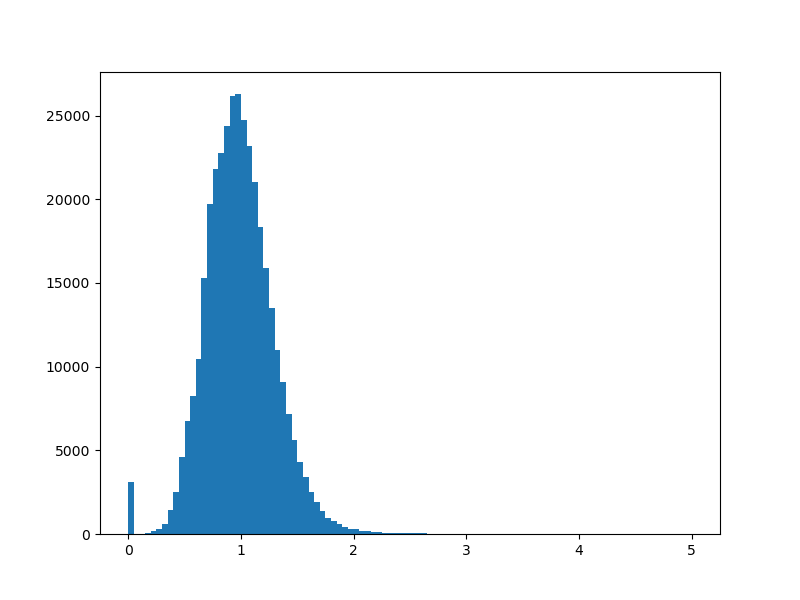
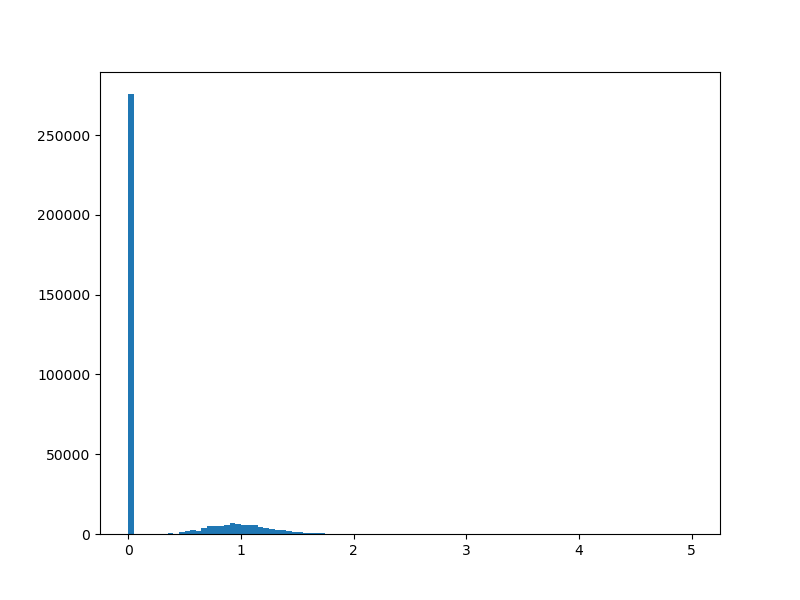
update

diff --git a/nom_package/regressor.py b/nom_package/regressor.py
@@ -17,6 +17,7 @@ from sklearn.inspection import plot_partial_dependence
 from sklearn.feature_selection import RFE
 from sklearn.model_selection import train_test_split, GroupKFold, cross_val_predict
 from sklearn.neural_network import MLPRegressor
+from sklearn.linear_model import LinearRegression
 
 import pickle
 
@@ -82,30 +83,45 @@ def _load_feature_names(tracer, use_stream=None, use_stars=None):
     return feature_names
 
 
-def _load_rf_hyperparameters(updated_param=None):
-    param = {}
+def _load_rf_hyperparameters(updated_param=None, n_jobs=6):
+    param = dict()
+    min_samples_leaf = {'North':20, 'South':20, 'Des':20, 'South_all':20, 'South_mid':20, 'South_pole':20, 'South_mid_no_des':20, 'Des_mid':20}
+    for key in min_samples_leaf:
+        param[key] = {'n_estimators':200, 'min_samples_leaf':min_samples_leaf[key], 'max_depth':None, 'max_leaf_nodes':None, 'n_jobs':n_jobs}
     if not updated_param is None:
         param = deep_update(param, updated_param)
     return param
+
 
 def _load_mlp_hyperparameters(updated_param=None):
-    param = {}
+    param = {'activation': 'logistic', 'batch_size': 1000, 'hidden_layer_sizes': (10, 8),
+             'max_iter': 6000, 'n_iter_no_change': 100, 'random_state': 5, 'solver': 'adam', 'tol': 1e-5}
     if not updated_param is None:
         param = deep_update(param, updated_param)
     return param
 
+
 def _load_linear_hyperparameters(updated_param=None):
-    param = {}
+    param = dict()
     if not updated_param is None:
         param = deep_update(param, updated_param)
     return param
+
+
+def _load_nfold(updated_param=None):
+    param = {'North':6, 'South':12, 'Des':6, 'South_all':18, 'South_mid':14, 'South_pole':5, 'Des_mid':3}
+    if not updated_param is None:
+        param = deep_update(param, updated_param)
+    return param
+
 
 class Regressor(object):
     """
     Implementation of the Systematic Correction based on template fitting regression
     """
 
-    def __init__(self, dataframe, engine, overwrite_regression=False, feature_names=None, updated_param_rf=None, updated_param_mlp=None, updated_param_linear=None):
+    def __init__(self, dataframe, engine, overwrite_regression=False, feature_names=None,
+                 updated_param_rf=None, updated_param_mlp=None, updated_param_linear=None, updated_nfold=None, n_jobs=6):
         """
         Initialize :class:`Regressor`
 
@@ -132,57 +148,50 @@ class Regressor(object):
             self.feature_names = feature_names
 
         if self.engine == 'RF':
-            self.param_regressor = _load_rf_hyperparameters(updated_param_rf)
+            self.param_regressor = _load_rf_hyperparameters(updated_param_rf, n_jobs)
         elif self.engine == 'NN':
             self.param_regressor = _load_mlp_hyperparameters(updated_param_mlp)
         elif self.engine == 'Linear':
             self.param_regressor = _load_linear_hyperparameters(updated_param_linear)
 
-        #new = self.__class__.__new__(self.__class__)
-        #new.__dict__.update(self.__dict__)
+        self.nfold = _load_nfold(updated_nfold)
 
-        ## mettre tout ce qu'il faut ect ...
 
-    def make_regressor_kfold(X, Y, keep_to_train, pixels, Nside, nbr_fold=5, min_samples_leaf=20, plot_accuracy=True, dir_to_save='Res'):
-        if use_neural_network:
-            if dir_to_save[-6:-1] == 'North':
-                dict_ini_mlp = {'activation': 'logistic', 'batch_size': 1000, 'hidden_layer_sizes': (10, 8), 'max_iter': 6000, \
-                                'n_iter_no_change': 100, 'random_state': 5, 'solver': 'adam', 'tol': 1e-5}
-            elif dir_to_save[-6:-1] == 'South':
-                dict_ini_mlp = {'activation': 'logistic', 'batch_size': 1000, 'hidden_layer_sizes': (10, 8), 'max_iter': 6000, \
-                                'n_iter_no_change': 100, 'random_state': 5, 'solver': 'adam', 'tol': 1e-5}
-            else:
-                dict_ini_mlp = {'activation': 'logistic', 'batch_size': 1000, 'hidden_layer_sizes': (10, 8), 'max_iter': 6000, \
-                                'n_iter_no_change': 100, 'random_state': 5, 'solver': 'adam', 'tol': 1e-5}
+    @staticmethod
+    def make_regressor_kfold(engine, nfold, param_regressor, X, Y, keep_to_train, pixels, Nside, dir_to_save, plot_accuracy=False):
+        if engine == 'NN':
             print(f"            ** USE NEURAL NETWORK")
-            print(f"                        *** Dict ini : {dict_ini_mlp}")
-            regressor = MLPRegressor(**dict_ini_mlp)
-        else:
+            print(f"                        *** Dict ini : {param_regressor}")
+            regressor = MLPRegressor(**param_regressor)
+        elif engine == 'RF':
             print(f"            ** USE RANDOM FOREST")
-            dict_ini_rf = {'n_estimators':200, 'min_samples_leaf':min_samples_leaf, 'max_depth':None, 'max_leaf_nodes':None, 'n_jobs':n_jobs}
-            print(f"                        *** Dict ini : {dict_ini_rf}")
-            regressor = RandomForestRegressor(**dict_ini_rf)
+            print(f"                        *** Dict ini : {param_regressor}")
+            regressor = RandomForestRegressor(**param_regressor)
+        elif engine == 'LINEAR':
+            print(f"            ** USE LINEAR")
+            print(f"                        *** Dict ini : {param_regressor}")
+            regressor = LinearRegression(**param_regressor)
 
-        kfold = GroupKFold(n_splits=nbr_fold)
+        kfold = GroupKFold(n_splits=nfold)
         size_group = 1000  * (Nside / 256)**2
         group = [i//size_group for i in range(pixels.size)]
 
         print("\nTrace les differents k-fold qui vont etre utilises ...")
         print("    * On utilise : {} avec un group_size = {}".format(kfold, size_group))
-        index = plot_kfold(Nside, kfold, group, pixels, title='{}-Fold repartition'.format(nbr_fold), save=True, savename=dir_to_save+'kfold_repartition.pdf')
+        index = Regressor.build_kfold(Nside, kfold, group, pixels, title='{}-Fold repartition'.format(nfold), savename=dir_to_save+'kfold_repartition.png')
 
         Y_pred = np.zeros(pixels.size)
         X.reset_index(drop=True, inplace=True)
 
         print("\nPrediction pour le Fold :")
         start = time.time()
-        for i in range(nbr_fold):
+        for i in range(nfold):
             print("     * {}".format(i))
             fold_index = index[i]
             keep_to_train_fold = np.delete(keep_to_train, fold_index)
             print(f"[INFO] There are {np.sum(keep_to_train_fold == 1)} pixels to train fold {i} which contains {np.sum(keep_to_train == 1) - np.sum(keep_to_train_fold == 1)} pixels (kept for the global training)")
 
-            if use_neural_network:
+            if engine == 'NN' or enfine == 'LINEAR':
                 print("                         *** On normalise et recentre le jeu d'entrainement ...")
                 print("[WARNING :] We normalize and center features on the training footprint fot his fold training !")
                 print("[WARNING :] Treat only features which are not the Sgr. stream (already normalized) !")
@@ -196,12 +205,13 @@ class Regressor(object):
 
             X_train, Y_train = X_fold.drop(fold_index)[keep_to_train_fold == 1], np.delete(Y, fold_index)[keep_to_train_fold == 1]
             regressor.fit(X_train, Y_train)
+            print("\nATTENTION METTRE LES ERREURS ICI BORDELLLL\n")
 
-            if not use_neural_network:
-                print("                         *** On sauvegarde importance feature ...")
-                df_feature_importance = pd.DataFrame(regressor.feature_importances_, index=feature_names_pandas, columns=['feature importance']).sort_values('feature importance', ascending=False).to_pickle(dir_to_save+f"feature_importance_fold_{i}.pkl")
-                df_feature_all = pd.DataFrame([tree.feature_importances_ for tree in regressor.estimators_], columns=feature_names_pandas)
-                df_feature_long = pd.melt(df_feature_all, var_name='feature name', value_name='values').to_pickle(dir_to_save+f"feature_importance_all_trees_fold_{i}.pkl")
+            # if engine == 'RF':
+            #     print("                         *** On sauvegarde importance feature ...")
+            #     df_feature_importance = pd.DataFrame(regressor.feature_importances_, index=feature_names_pandas, columns=['feature importance']).sort_values('feature importance', ascending=False).to_pickle(dir_to_save+f"feature_importance_fold_{i}.pkl")
+            #     df_feature_all = pd.DataFrame([tree.feature_importances_ for tree in regressor.estimators_], columns=feature_names_pandas)
+            #     df_feature_long = pd.melt(df_feature_all, var_name='feature name', value_name='values').to_pickle(dir_to_save+f"feature_importance_all_trees_fold_{i}.pkl")
 
             Y_pred_fold = np.zeros(fold_index.size)
             Y_pred_fold = regressor.predict(X_fold.iloc[fold_index])
@@ -209,10 +219,45 @@ class Regressor(object):
 
         print("    * Fait en : {:.3f} s".format(time.time() - start))
 
-        if plot_accuracy:
-            accuracy_plot_for_regressor(Y, Y_pred, pixels, keep_to_train, dir_to_save)
+        #if plot_accuracy:
+        #    accuracy_plot_for_regressor(Y, Y_pred, pixels, keep_to_train, dir_to_save)
 
         return Y_pred, index
+
+    @staticmethod
+    def build_kfold(Nside, kfold, group, pixels, title='', savename=None):
+        map = np.zeros(hp.nside2npix(Nside))
+        index = []
+        i = 1
+        print(kfold)
+        print("\n \n")
+        for index_train, index_test in kfold.split(pixels, groups=group):
+            index += [index_test]
+            map[pixels[index_test]] = i
+            i = i+1
+        map[map == 0] = np.NaN
+        #attention au sens de l'axe en RA ! --> la on le prend normal et on le retourne à la fin :)
+        plt.figure(1)
+        map_to_plot = hp.cartview(map, nest=True, flip='geo', rot=120, fig=1, return_projected_map=True)
+        plt.close()
+
+        fig, ax = plt.subplots(figsize=(11,7))
+        map_plotted = plt.imshow(map_to_plot, interpolation='nearest', cmap='jet', origin='lower', extent=[-60, 300, -90, 90])
+        ax.set_xlim(-60, 300)
+        ax.xaxis.set_ticks(np.arange(-60, 330, 30))
+        plt.gca().invert_xaxis()
+        ax.set_xlabel('R.A. [deg]')
+        ax.set_ylim(-90, 90)
+        ax.yaxis.set_ticks(np.arange(-90, 120, 30))
+        ax.set_ylabel('Dec. [deg]')
+        ax.grid(True, alpha=0.8, linestyle=':')
+        plt.title(title)
+
+        if not savename is None:
+            plt.savefig(savename)
+        plt.close()
+
+        return index
 
 
     def make_regression(self):
@@ -238,20 +283,20 @@ class Regressor(object):
             if not os.path.isdir(os.path.join(self.dataframe.output, self.engine, zone_name)):
                 os.mkdir(os.path.join(self.dataframe.output, self.engine, zone_name))
 
-            zone = self.dataframe.data_regressor[zone_name_to_column_name[zone_name]].values
-            # nbr_fold_zone, min_samples_leaf_zone = nbr_fold[zone_name], min_samples_leaf[zone_name]
+            zone = self.dataframe.data_regressor[zone_name_to_column_name[zone_name]].values ## mask array
 
             print(f"\n######################\n    {zone_name} : \n")
             X = features[zone]
             Y = norm_targets[zone]
-            pixels_zone = pixels[zone]
             keep_to_train_zone = keep_to_train[zone]
+            pixels_zone = pixels[zone]
             print(f"Sample size {zone_name}: {keep_to_train_zone.sum()}\nTotal Sample Size: {keep_to_train.sum()}\nTraining Fraction: {keep_to_train_zone.sum()/keep_to_train.sum():.2%}\n")
-            # if not use_linear_correction:
-            #    F[zone], fold_index[zone_name] = make_regressor_kfold(X, Y, keep_to_train_zone, pixels_zone, Nside,
-            #                                                          nbr_fold_zone, min_samples_leaf_zone, dir_to_save=base_directory+f'{zone_name}/', plot_accuracy=False)
-            #else:
-            #    F[zone] = make_polynomial_regressor(X, Y, keep_to_train_zone, regulator)
+            if not False: ##demander linear without kfold
+                #F[zone], fold_index[zone_name] = Regressor.make_regressor_kfold(self.engine, self.nfold[zone_name], self.param_regressor[zone_name],
+                                                                                X, Y, keep_to_train_zone, pixels_zone, self.dataframe.Nside,
+                                                                                os.path.join(self.dataframe.output, self.engine, zone_name), plot_accuracy=False)
+            else:
+                F[zone] = make_polynomial_regressor(X, Y, keep_to_train_zone, regulator)
             print("et on appelle la regressoin --> mettre a jour les argumetns de la fonction --> puis on fait les dessins")
             print("attention il faut faire un truc pour sauvegarder les differents arbres + l'output ne doit pas etre une carte dans un premier temps --> on pourra le demander ensuite ")
 
@@ -291,37 +336,7 @@ class Regressor(object):
     #     """
     #
     #
-    # def plot_kfold(Nside, kfold, group, pixels, title='', save=True, savename='Res/kfold.pdf'):
-    #     map = np.zeros(hp.nside2npix(Nside))
-    #     index = []
-    #     i = 1
-    #     for index_train, index_test in kfold.split(pixels, groups=group):
-    #         index += [index_test]
-    #         map[pixels[index_test]] = i
-    #         i = i+1
-    #     map[map == 0] = np.NaN
-    #     #attention au sens de l'axe en RA ! --> la on le prend normal et on le retourne à la fin :)
-    #     plt.figure(1)
-    #     map_to_plot = hp.cartview(map, nest=True, flip='geo', rot=120, fig=1, return_projected_map=True)
-    #     plt.close()
-    #
-    #     fig, ax = plt.subplots(figsize=(11,7))
-    #     map_plotted = plt.imshow(map_to_plot, interpolation='nearest', cmap='jet', origin='lower', extent=[-60, 300, -90, 90])
-    #     ax.set_xlim(-60, 300)
-    #     ax.xaxis.set_ticks(np.arange(-60, 330, 30))
-    #     plt.gca().invert_xaxis()
-    #     ax.set_xlabel('R.A. [deg]')
-    #     ax.set_ylim(-90, 90)
-    #     ax.yaxis.set_ticks(np.arange(-90, 120, 30))
-    #     ax.set_ylabel('Dec. [deg]')
-    #     ax.grid(True, alpha=0.8, linestyle=':')
-    #     plt.title(title)
-    #
-    #     if save:
-    #         plt.savefig(savename)
-    #     plt.close()
-    #
-    #     return index
+
     #
     #
     # def accuracy_plot_for_regressor(Y, Y_pred, pixels, keep_to_train, dir_to_save):

diff --git a/nom_package/test.py b/nom_package/test.py
@@ -29,6 +29,8 @@ param_targets['clear_south'] = True
 # param_targets['region'] = ['North', 'South', 'Des'] #(default)
 # region available = ['North', 'South', 'South_pole', 'Des_mid'], ['North', 'South_mid', 'South_pole'], ['North', 'South_all']
 
+param_targets['region'] = ['Des']
+
 dataframe = DataFrame(version, tracer, data_dir, output_dir, suffixe_tracer=suffixe_tracer, **param_targets)
 
 dataframe.load_feature_from_healpix()
@@ -36,7 +38,7 @@ dataframe.load_target_from_healpix(data_dir=data_dir, load_fracarea=False)
 
 dataframe.build_dataframe_photometry()
 
-regressor = Regressor(dataframe, engine='RF', overwrite_regression=True)
+regressor = Regressor(dataframe, engine='RF', overwrite_regression=True, n_jobs=4)
 
 regressor.make_regression()
 
@@ -45,3 +47,6 @@ regressor.make_regression()
 
 ## AJOUTER LES ERREURS DANS .fit(X, Y, Y_err) --< ultra ilportante
 ## mettre aussi linear dans le k-fold correctement p(avec scikit leanr et garder entrainment complet avec minuit)
+
+
+## remarque pour els tiles on creera quand meme une colonne hxpxixel juste pour pouvoir faire le kfold et faire la speration pour la photometr --> prendre valuer au milieu de la petal --> ok (Le Nside n'aura plus d'importznce sauf pour al localisation)

diff --git a/nom_package/build_dataframe.py b/nom_package/build_dataframe.py
@@ -17,7 +17,6 @@ import matplotlib.pyplot as plt
 
 #from desitarget.geomask import hp_in_box ## --> on va copier la fonction pour eviter une dependance
 
-#import matplotlib.pyplot as plt
 
 ## mettre commentaire cii
 zone_name_to_column_name = {'North':'ISNORTH', 'South':'ISSOUTHWITHOUTDES', 'Des':'ISDES',
